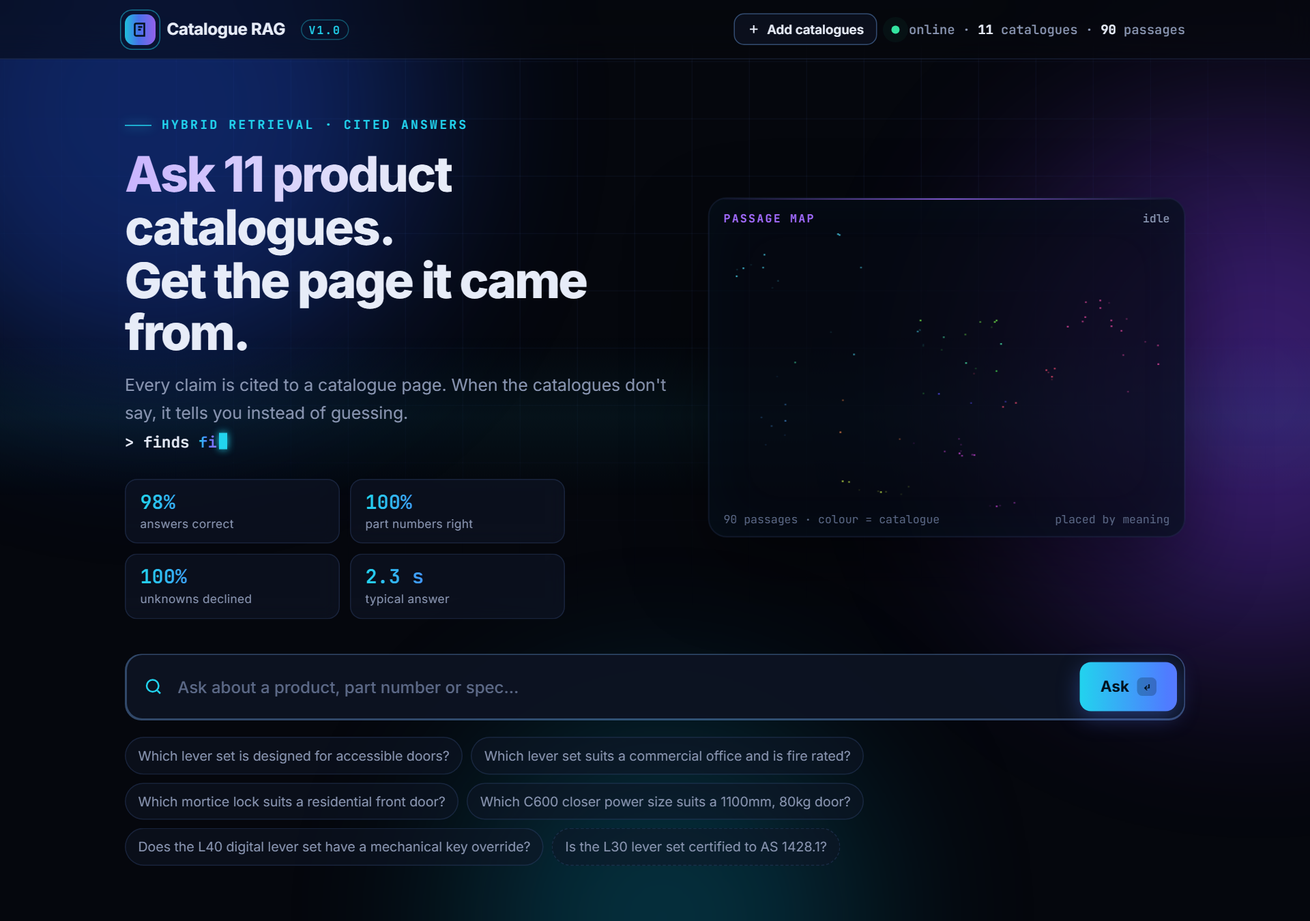
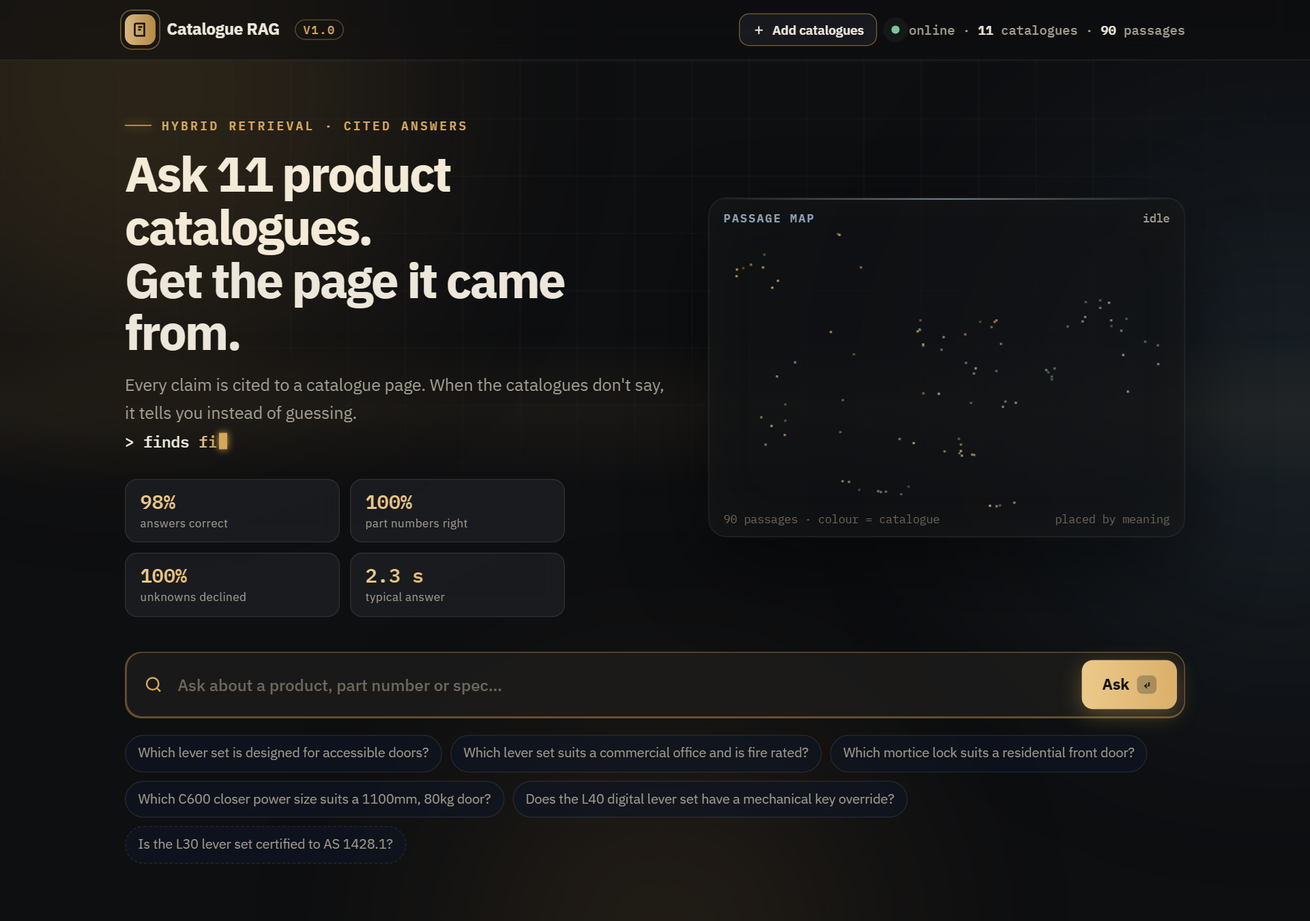
Graphite and brass theme; robust decline detection
- UI and diagram: warm graphite surfaces, brushed-brass accent, steel secondary,
  IBM Plex type; no purple or neon gradients. Map dots in metal tones
- An uncited 'the extracts do not mention X' reply now counts as a decline even when
  the model omits the NOT_FOUND marker, and the UI labels it as such
- Screenshots, diagram and demo GIF re-recorded

diff --git a/ui/index.html b/ui/index.html
@@ -5,19 +5,19 @@
 <meta name="viewport" content="width=device-width, initial-scale=1">
 <title>Catalogue RAG</title>
 <meta name="description" content="Ask product catalogues a question; get an answer with the page it came from.">
-<meta name="theme-color" content="#05070d">
+<meta name="theme-color" content="#0e0f11">
 <link rel="preconnect" href="https://fonts.googleapis.com">
 <link rel="preconnect" href="https://fonts.gstatic.com" crossorigin>
-<link href="https://fonts.googleapis.com/css2?family=Inter:wght@400;500;600;700;800&family=JetBrains+Mono:wght@400;500;700&display=swap" rel="stylesheet">
+<link href="https://fonts.googleapis.com/css2?family=IBM+Plex+Sans:wght@400;500;600;700&family=IBM+Plex+Mono:wght@400;500;600&display=swap" rel="stylesheet">
 <style>
   :root {
-    --bg: #05070d; --bg2: #0a0f1c; --glass: rgba(14, 21, 38, .62); --glass-hi: rgba(22, 32, 58, .72);
-    --line: rgba(120, 160, 255, .14); --line-hi: rgba(120, 180, 255, .38);
-    --ink: #e7ecf8; --muted: #8b97b3; --dim: #5d6a88;
-    --cyan: #22d3ee; --blue: #4f7cff; --violet: #a26bff; --green: #34e3a0; --amber: #ffb547; --red: #ff5c7a;
-    --grad: linear-gradient(90deg, #22d3ee, #4f7cff 45%, #a26bff);
-    --mono: "JetBrains Mono", ui-monospace, SFMono-Regular, Consolas, monospace;
-    --sans: Inter, system-ui, -apple-system, "Segoe UI", sans-serif;
+    --bg: #0e0f11; --bg2: #16181b; --glass: rgba(30, 32, 36, .72); --glass-hi: rgba(36, 38, 43, .84);
+    --line: rgba(232, 220, 200, .10); --line-hi: rgba(212, 168, 90, .42);
+    --ink: #ece6db; --muted: #a39c90; --dim: #6e685f;
+    --brass: #d4a85a; --brass-hi: #ecc98a; --steel: #8ea2b5; --green: #7cc49a; --amber: #e2895c; --red: #e0614f;
+    --grad: linear-gradient(90deg, #ecc98a, #c8964a);
+    --mono: "IBM Plex Mono", ui-monospace, SFMono-Regular, Consolas, monospace;
+    --sans: "IBM Plex Sans", system-ui, -apple-system, "Segoe UI", sans-serif;
   }
   * { box-sizing: border-box; }
   html, body { margin: 0; }
@@ -31,47 +31,46 @@
     -webkit-mask-image: radial-gradient(ellipse 80% 60% at 50% 20%, #000 30%, transparent 75%);
             mask-image: radial-gradient(ellipse 80% 60% at 50% 20%, #000 30%, transparent 75%); }
   @keyframes grid-drift { to { transform: translate3d(56px, 56px, 0); } }
-  .orb { position: absolute; border-radius: 50%; filter: blur(90px); opacity: .42; animation: float 18s ease-in-out infinite; }
-  .orb.a { width: 520px; height: 520px; background: #1d4ed8; top: -160px; left: -120px; }
-  .orb.b { width: 460px; height: 460px; background: #7c3aed; top: 120px; right: -140px; animation-delay: -6s; }
-  .orb.c { width: 380px; height: 380px; background: #0891b2; bottom: -180px; left: 35%; animation-delay: -12s; opacity: .3; }
+  .orb { position: absolute; border-radius: 50%; filter: blur(110px); opacity: .28; animation: float 18s ease-in-out infinite; }
+  .orb.a { width: 520px; height: 520px; background: #7a5c2e; top: -180px; left: -140px; }
+  .orb.b { width: 460px; height: 460px; background: #34495c; top: 140px; right: -160px; animation-delay: -6s; }
+  .orb.c { width: 380px; height: 380px; background: #5b4526; bottom: -200px; left: 35%; animation-delay: -12s; opacity: .3; }
   @keyframes float { 0%, 100% { transform: translate(0, 0) scale(1); } 50% { transform: translate(40px, 30px) scale(1.08); } }
   .scan { position: absolute; left: 0; right: 0; height: 160px; top: -160px;
-    background: linear-gradient(180deg, transparent, rgba(34, 211, 238, .06), transparent); animation: scan 7s linear infinite; }
+    background: linear-gradient(180deg, transparent, rgba(212, 168, 90, .06), transparent); animation: scan 7s linear infinite; }
   @keyframes scan { to { top: 110%; } }
 
   .wrap { position: relative; z-index: 1; max-width: 1080px; margin: 0 auto; padding: 0 22px; }
 
   /* ---------- header ---------- */
   header { position: sticky; top: 0; z-index: 5; backdrop-filter: blur(14px); -webkit-backdrop-filter: blur(14px);
-    background: rgba(5, 7, 13, .55); border-bottom: 1px solid var(--line); }
+    background: rgba(12, 13, 15, .55); border-bottom: 1px solid var(--line); }
   header .wrap { display: flex; align-items: center; justify-content: space-between; gap: 16px; padding-top: 13px; padding-bottom: 13px; }
   .brand { display: flex; align-items: center; gap: 11px; font-weight: 700; letter-spacing: -.01em; font-size: 16px; }
   .logo { position: relative; width: 30px; height: 30px; display: grid; place-items: center; }
   .logo::before { content: ""; position: absolute; inset: 0; border-radius: 9px; background: var(--grad); opacity: .9; }
-  .logo::after { content: ""; position: absolute; inset: -5px; border-radius: 12px; border: 1px solid var(--cyan); opacity: 0; animation: ping 2.6s ease-out infinite; }
+  .logo::after { content: ""; position: absolute; inset: -5px; border-radius: 12px; border: 1px solid var(--brass); opacity: 0; animation: ping 2.6s ease-out infinite; }
   @keyframes ping { 0% { opacity: .7; transform: scale(.85); } 100% { opacity: 0; transform: scale(1.35); } }
-  .logo svg { position: relative; color: #04121f; }
-  .brand small { font: 500 11px var(--mono); color: var(--cyan); letter-spacing: .12em; text-transform: uppercase; margin-left: 4px;
-    padding: 2px 7px; border: 1px solid rgba(34, 211, 238, .35); border-radius: 999px; }
+  .logo svg { position: relative; color: #1b1408; }
+  .brand small { font: 500 11px var(--mono); color: var(--brass); letter-spacing: .12em; text-transform: uppercase; margin-left: 4px;
+    padding: 2px 7px; border: 1px solid rgba(212, 168, 90, .35); border-radius: 999px; }
   .status { display: flex; align-items: center; gap: 9px; font: 500 12.5px var(--mono); color: var(--muted); }
-  .dot { width: 8px; height: 8px; border-radius: 50%; background: var(--green); box-shadow: 0 0 0 0 rgba(52, 227, 160, .7); animation: pulse 2s infinite; }
+  .dot { width: 8px; height: 8px; border-radius: 50%; background: var(--green); box-shadow: 0 0 0 0 rgba(124, 196, 154, .7); animation: pulse 2s infinite; }
   .dot.off { background: var(--red); animation: none; }
-  @keyframes pulse { 70% { box-shadow: 0 0 0 9px rgba(52, 227, 160, 0); } 100% { box-shadow: 0 0 0 0 rgba(52, 227, 160, 0); } }
+  @keyframes pulse { 70% { box-shadow: 0 0 0 9px rgba(124, 196, 154, 0); } 100% { box-shadow: 0 0 0 0 rgba(124, 196, 154, 0); } }
   .status b { color: var(--ink); font-weight: 700; }
 
   /* ---------- hero ---------- */
   main.wrap { padding-top: 56px; padding-bottom: 70px; }
-  .eyebrow { font: 600 12px var(--mono); color: var(--cyan); letter-spacing: .18em; text-transform: uppercase; display: flex; align-items: center; gap: 10px; }
-  .eyebrow::before { content: ""; width: 26px; height: 1px; background: var(--cyan); box-shadow: 0 0 10px var(--cyan); }
+  .eyebrow { font: 600 12px var(--mono); color: var(--brass); letter-spacing: .18em; text-transform: uppercase; display: flex; align-items: center; gap: 10px; }
+  .eyebrow::before { content: ""; width: 26px; height: 1px; background: var(--brass); box-shadow: 0 0 10px var(--brass); }
   h1 { font-size: clamp(30px, 5vw, 48px); line-height: 1.08; letter-spacing: -.035em; margin: 14px 0 12px; font-weight: 800; }
-  .shimmer { background: linear-gradient(90deg, #e7ecf8 0%, #9fdcff 25%, #c9b3ff 50%, #e7ecf8 75%); background-size: 200% auto;
-    -webkit-background-clip: text; background-clip: text; color: transparent; animation: shimmer 6s linear infinite; }
+  .shimmer { color: #f4ead8; }
   @keyframes shimmer { to { background-position: -200% center; } }
   .lede { color: var(--muted); font-size: 16.5px; margin: 0 0 6px; max-width: 690px; }
   .typer { font: 500 15px var(--mono); color: var(--ink); min-height: 24px; }
   .typer .t { background: var(--grad); -webkit-background-clip: text; background-clip: text; color: transparent; font-weight: 700; }
-  .caret { display: inline-block; width: 8px; height: 1.05em; vertical-align: -2px; margin-left: 2px; background: var(--cyan); animation: blink 1s steps(1) infinite; box-shadow: 0 0 8px var(--cyan); }
+  .caret { display: inline-block; width: 8px; height: 1.05em; vertical-align: -2px; margin-left: 2px; background: var(--brass); animation: blink 1s steps(1) infinite; box-shadow: 0 0 8px var(--brass); }
   @keyframes blink { 50% { opacity: 0; } }
 
   .stats { display: flex; flex-wrap: wrap; gap: 10px; margin: 22px 0 0; }
@@ -84,19 +83,19 @@
   /* ---------- search ---------- */
   .search { position: relative; border-radius: 16px; padding: 1.5px; background: var(--line-hi); transition: background .3s; }
   .search::before { content: ""; position: absolute; inset: 0; border-radius: 16px; padding: 1.5px; opacity: 0; transition: opacity .3s;
-    background: conic-gradient(from var(--angle), #22d3ee, #4f7cff, #a26bff, #22d3ee); animation: spin-border 4s linear infinite;
+    background: conic-gradient(from var(--angle), #ecc98a, #8ea2b5, #c8964a, #ecc98a); animation: spin-border 4s linear infinite;
     -webkit-mask: linear-gradient(#000 0 0) content-box, linear-gradient(#000 0 0); -webkit-mask-composite: xor; mask-composite: exclude; }
   .search:focus-within::before, .search.busy::before { opacity: 1; }
   @property --angle { syntax: "<angle>"; initial-value: 0deg; inherits: false; }
   @keyframes spin-border { to { --angle: 360deg; } }
-  form { position: relative; display: flex; gap: 8px; align-items: center; padding: 7px 7px 7px 16px; border-radius: 15px; background: rgba(9, 13, 25, .9); }
-  .q-icon { color: var(--cyan); flex: none; }
+  form { position: relative; display: flex; gap: 8px; align-items: center; padding: 7px 7px 7px 16px; border-radius: 15px; background: rgba(19, 20, 23, .9); }
+  .q-icon { color: var(--brass); flex: none; }
   input[type=text] { flex: 1; min-width: 0; padding: 12px 6px; font: 500 16px var(--sans); color: var(--ink); background: none; border: 0; outline: none; }
   input[type=text]::placeholder { color: var(--dim); }
   button { font: inherit; cursor: pointer; border: 0; }
-  .ask { display: inline-flex; align-items: center; gap: 8px; padding: 12px 20px; border-radius: 11px; font-weight: 700; color: #03121e;
-    background: var(--grad); background-size: 200% auto; transition: background-position .4s, transform .15s, box-shadow .3s; box-shadow: 0 6px 22px rgba(79, 124, 255, .35); }
-  .ask:hover { background-position: right center; box-shadow: 0 8px 28px rgba(162, 107, 255, .45); }
+  .ask { display: inline-flex; align-items: center; gap: 8px; padding: 12px 20px; border-radius: 11px; font-weight: 700; color: #1b1408;
+    background: var(--grad); background-size: 200% auto; transition: background-position .4s, transform .15s, box-shadow .3s; box-shadow: 0 6px 22px rgba(212, 168, 90, .35); }
+  .ask:hover { background-position: right center; box-shadow: 0 8px 28px rgba(212, 168, 90, .45); }
   .ask:active { transform: translateY(1px); }
   .ask:disabled { opacity: .6; cursor: wait; }
   kbd { font: 600 10.5px var(--mono); padding: 2px 6px; border-radius: 5px; background: rgba(3, 18, 30, .25); }
@@ -105,7 +104,7 @@
     border-radius: 999px; transition: color .2s, border-color .2s, box-shadow .2s, transform .2s; animation: rise .6s both; }
   .examples button:nth-child(2) { animation-delay: .06s; } .examples button:nth-child(3) { animation-delay: .12s; }
   .examples button:nth-child(4) { animation-delay: .18s; } .examples button:nth-child(5) { animation-delay: .24s; }
-  .examples button:hover { color: var(--ink); border-color: var(--cyan); box-shadow: 0 0 18px rgba(34, 211, 238, .22); transform: translateY(-1px); }
+  .examples button:hover { color: var(--ink); border-color: var(--brass); box-shadow: 0 0 18px rgba(212, 168, 90, .22); transform: translateY(-1px); }
   .examples button.trap { border-style: dashed; }
   @keyframes rise { from { opacity: 0; transform: translateY(8px); } to { opacity: 1; transform: none; } }
 
@@ -118,7 +117,7 @@
   .step::after { content: ""; position: absolute; left: 0; bottom: 0; height: 2px; width: 0; background: var(--grad); transition: width .5s ease; }
   .step.active { border-color: var(--line-hi); }
   .step.active::after { width: 60%; animation: load 1.2s ease-in-out infinite alternate; }
-  .step.active .n { color: var(--cyan); }
+  .step.active .n { color: var(--brass); }
   .step.done::after { width: 100%; animation: none; }
   .step.done .n { color: var(--green); }
   @keyframes load { from { width: 15%; } to { width: 85%; } }
@@ -128,22 +127,22 @@
   .card { position: relative; background: var(--glass-hi); border: 1px solid var(--line); border-radius: 16px; padding: 20px 22px; backdrop-filter: blur(10px);
     box-shadow: 0 20px 60px rgba(0, 0, 0, .35); animation: rise .45s both; }
   .card::before { content: ""; position: absolute; inset: 0 0 auto; height: 1px; border-radius: 16px 16px 0 0;
-    background: linear-gradient(90deg, transparent, var(--cyan), transparent); opacity: .7; }
-  .label { display: flex; align-items: center; gap: 8px; font: 600 11.5px var(--mono); text-transform: uppercase; letter-spacing: .14em; color: var(--cyan); margin-bottom: 10px; }
+    background: linear-gradient(90deg, transparent, var(--brass), transparent); opacity: .7; }
+  .label { display: flex; align-items: center; gap: 8px; font: 600 11.5px var(--mono); text-transform: uppercase; letter-spacing: .14em; color: var(--brass); margin-bottom: 10px; }
   .answer { font-size: 17px; line-height: 1.65; min-height: 54px; }
   .answer p { margin: 0 0 10px; } .answer ul { margin: 0 0 10px; padding-left: 20px; }
   .answer strong { color: #fff; }
-  .answer code { font: 500 14px var(--mono); color: #9fe9ff; background: rgba(34, 211, 238, .1); border: 1px solid rgba(34, 211, 238, .25); padding: 1px 6px; border-radius: 5px; }
+  .answer code { font: 500 14px var(--mono); color: #f0d9a8; background: rgba(212, 168, 90, .1); border: 1px solid rgba(212, 168, 90, .25); padding: 1px 6px; border-radius: 5px; }
   .cite { display: inline-grid; place-items: center; min-width: 21px; height: 21px; padding: 0 5px; margin: 0 2px; border-radius: 6px; vertical-align: 1px;
-    font: 700 11.5px var(--mono); color: #04121f; background: var(--cyan); text-decoration: none; box-shadow: 0 0 12px rgba(34, 211, 238, .55);
+    font: 700 11.5px var(--mono); color: #1b1408; background: var(--brass); text-decoration: none; box-shadow: 0 0 12px rgba(212, 168, 90, .55);
     animation: pop .35s cubic-bezier(.2, 1.6, .4, 1) both; transition: transform .15s; }
   .cite:hover { transform: translateY(-2px) scale(1.08); }
   @keyframes pop { from { transform: scale(.3); opacity: 0; } to { transform: none; opacity: 1; } }
-  .typing::after { content: ""; display: inline-block; width: 8px; height: 1.05em; margin-left: 3px; vertical-align: -2px; background: var(--cyan); animation: blink .8s steps(1) infinite; }
+  .typing::after { content: ""; display: inline-block; width: 8px; height: 1.05em; margin-left: 3px; vertical-align: -2px; background: var(--brass); animation: blink .8s steps(1) infinite; }
   .meta { display: flex; flex-wrap: wrap; gap: 7px; margin-top: 14px; }
-  .chip { font: 500 11.5px var(--mono); color: var(--muted); padding: 3px 9px; border: 1px solid var(--line); border-radius: 999px; background: rgba(5, 7, 13, .4); animation: rise .4s both; }
+  .chip { font: 500 11.5px var(--mono); color: var(--muted); padding: 3px 9px; border: 1px solid var(--line); border-radius: 999px; background: rgba(12, 13, 15, .4); animation: rise .4s both; }
   .chip b { color: var(--ink); }
-  .declined { border-color: rgba(255, 181, 71, .45); box-shadow: 0 0 0 1px rgba(255, 181, 71, .12), 0 20px 60px rgba(255, 140, 0, .08); }
+  .declined { border-color: rgba(226, 137, 92, .45); box-shadow: 0 0 0 1px rgba(226, 137, 92, .12), 0 20px 60px rgba(226, 137, 92, .08); }
   .declined::before { background: linear-gradient(90deg, transparent, var(--amber), transparent); }
   .declined .label { color: var(--amber); }
   .shield { color: var(--amber); }
@@ -154,70 +153,70 @@
     animation: slide .5s both; transition: border-color .25s, box-shadow .25s, transform .25s; }
   .src:hover { transform: translateX(-2px); border-color: var(--line-hi); }
   @keyframes slide { from { opacity: 0; transform: translateX(18px); } to { opacity: 1; transform: none; } }
-  .src.cited { border-color: rgba(34, 211, 238, .5); box-shadow: inset 3px 0 0 var(--cyan), 0 0 24px rgba(34, 211, 238, .1); }
-  .src.flash { box-shadow: inset 3px 0 0 var(--cyan), 0 0 0 2px var(--cyan), 0 0 34px rgba(34, 211, 238, .35); }
+  .src.cited { border-color: rgba(212, 168, 90, .5); box-shadow: inset 3px 0 0 var(--brass), 0 0 24px rgba(212, 168, 90, .1); }
+  .src.flash { box-shadow: inset 3px 0 0 var(--brass), 0 0 0 2px var(--brass), 0 0 34px rgba(212, 168, 90, .35); }
   .src-head { display: flex; gap: 9px; align-items: baseline; }
-  .src-n { font: 700 12px var(--mono); color: var(--cyan); }
+  .src-n { font: 700 12px var(--mono); color: var(--brass); }
   .src.uncited .src-n { color: var(--dim); }
   .src-title { font-weight: 600; font-size: 14px; }
   .src-where { color: var(--muted); font-size: 12px; margin: 2px 0 8px; }
   .tag { font: 600 10px var(--mono); letter-spacing: .08em; text-transform: uppercase; padding: 1px 6px; border-radius: 4px; margin-left: 6px; vertical-align: 1px; }
-  .tag.c { color: #04121f; background: var(--cyan); } .tag.u { color: var(--dim); border: 1px solid var(--line); }
+  .tag.c { color: #1b1408; background: var(--brass); } .tag.u { color: var(--dim); border: 1px solid var(--line); }
   .src-text { font: 400 12px/1.55 var(--mono); white-space: pre-wrap; color: #a9b4cd; max-height: 104px; overflow: hidden;
     -webkit-mask-image: linear-gradient(#000 62%, transparent); mask-image: linear-gradient(#000 62%, transparent); }
   .src.open .src-text { max-height: none; -webkit-mask-image: none; mask-image: none; }
-  .bar { height: 3px; border-radius: 3px; background: rgba(120, 160, 255, .12); margin-top: 9px; overflow: hidden; }
+  .bar { height: 3px; border-radius: 3px; background: rgba(232, 220, 200, .12); margin-top: 9px; overflow: hidden; }
   .bar i { display: block; height: 100%; width: 0; background: var(--grad); transition: width 1s cubic-bezier(.2, .8, .2, 1); }
-  .more { background: none; color: var(--cyan); padding: 6px 0 0; font: 600 12px var(--mono); }
+  .more { background: none; color: var(--brass); padding: 6px 0 0; font: 600 12px var(--mono); }
   .src.uncited { opacity: .72; }
 
   /* hero: text left, passage map right */
   .hero { display: grid; grid-template-columns: minmax(0, 1.15fr) minmax(0, 1fr); gap: 34px; align-items: center; }
-  .map-card { position: relative; border-radius: 18px; border: 1px solid var(--line); background: rgba(6, 10, 20, .72);
-    box-shadow: 0 30px 80px rgba(0, 0, 0, .45), inset 0 0 60px rgba(34, 211, 238, .04); overflow: hidden; animation: rise .7s .15s both; }
-  .map-card::before { content: ""; position: absolute; inset: 0 0 auto; height: 1px; background: linear-gradient(90deg, transparent, var(--violet), transparent); }
+  .map-card { position: relative; border-radius: 18px; border: 1px solid var(--line); background: rgba(17, 18, 21, .72);
+    box-shadow: 0 30px 80px rgba(0, 0, 0, .45), inset 0 0 60px rgba(212, 168, 90, .04); overflow: hidden; animation: rise .7s .15s both; }
+  .map-card::before { content: ""; position: absolute; inset: 0 0 auto; height: 1px; background: linear-gradient(90deg, transparent, var(--steel), transparent); }
   #map { display: block; width: 100%; height: 330px; cursor: crosshair; }
   .map-head { position: absolute; top: 12px; left: 14px; right: 14px; display: flex; justify-content: space-between; gap: 10px; pointer-events: none; }
-  .map-title { font: 600 11px var(--mono); letter-spacing: .14em; text-transform: uppercase; color: var(--violet); }
+  .map-title { font: 600 11px var(--mono); letter-spacing: .14em; text-transform: uppercase; color: var(--steel); }
   .map-state { font: 500 11px var(--mono); color: var(--muted); }
   .map-foot { position: absolute; left: 14px; right: 14px; bottom: 10px; font: 11px var(--mono); color: var(--dim); pointer-events: none; display: flex; justify-content: space-between; gap: 8px; }
-  .map-tip { position: absolute; pointer-events: none; padding: 6px 9px; border-radius: 8px; background: rgba(5, 7, 13, .92); border: 1px solid var(--line-hi);
+  .map-tip { position: absolute; pointer-events: none; padding: 6px 9px; border-radius: 8px; background: rgba(12, 13, 15, .92); border: 1px solid var(--line-hi);
     font: 500 11.5px var(--sans); color: var(--ink); white-space: nowrap; transform: translate(-50%, calc(-100% - 12px)); opacity: 0; transition: opacity .15s; }
   .map-tip.on { opacity: 1; }
 
   /* cursor spotlight on glass panels */
-  .spot { background-image: radial-gradient(360px circle at var(--mx, -999px) var(--my, -999px), rgba(34, 211, 238, .09), transparent 42%); }
+  .spot { background-image: radial-gradient(360px circle at var(--mx, -999px) var(--my, -999px), rgba(212, 168, 90, .09), transparent 42%); }
 
   /* citation hover preview */
-  .peek { position: fixed; z-index: 20; width: min(380px, 90vw); padding: 12px 14px; border-radius: 12px; background: rgba(8, 12, 24, .97);
-    border: 1px solid rgba(34, 211, 238, .45); box-shadow: 0 18px 50px rgba(0, 0, 0, .6), 0 0 30px rgba(34, 211, 238, .15);
+  .peek { position: fixed; z-index: 20; width: min(380px, 90vw); padding: 12px 14px; border-radius: 12px; background: rgba(22, 23, 26, .97);
+    border: 1px solid rgba(212, 168, 90, .45); box-shadow: 0 18px 50px rgba(0, 0, 0, .6), 0 0 30px rgba(212, 168, 90, .15);
     pointer-events: none; opacity: 0; transform: translateY(6px); transition: opacity .15s, transform .15s; }
   .peek.on { opacity: 1; transform: none; }
   .peek b { display: block; font-size: 13px; } .peek small { display: block; color: var(--muted); font-size: 11.5px; margin: 1px 0 7px; }
   .peek pre { margin: 0; font: 11.5px/1.5 var(--mono); color: #a9b4cd; white-space: pre-wrap; max-height: 150px; overflow: hidden; }
-  .src.reading .tag.u { color: var(--cyan); border-color: rgba(34, 211, 238, .35); animation: blink 1s steps(1) infinite; }
+  .src.reading .tag.u { color: var(--brass); border-color: rgba(212, 168, 90, .35); animation: blink 1s steps(1) infinite; }
 
   /* add catalogues (only shown when the server has uploads switched on) */
   .head-right { display: flex; align-items: center; gap: 14px; }
   .add-btn { display: inline-flex; align-items: center; gap: 7px; padding: 7px 12px; border-radius: 10px; cursor: pointer;
     font: 600 12.5px var(--sans); color: var(--ink); background: var(--glass); border: 1px solid var(--line-hi); transition: border-color .2s, box-shadow .2s; }
-  .add-btn:hover { border-color: var(--cyan); box-shadow: 0 0 18px rgba(34, 211, 238, .25); }
-  .veil { position: fixed; inset: 0; z-index: 30; background: rgba(3, 5, 10, .66); backdrop-filter: blur(6px); display: grid; place-items: center; padding: 16px; }
+  .add-btn:hover { border-color: var(--brass); box-shadow: 0 0 18px rgba(212, 168, 90, .25); }
+  .veil { position: fixed; inset: 0; z-index: 30; background: rgba(8, 8, 9, .66); backdrop-filter: blur(6px); display: grid; place-items: center; padding: 16px; }
   .veil[hidden] { display: none; }
-  .panel { width: min(560px, 100%); max-height: 88vh; overflow: auto; border-radius: 18px; background: rgba(10, 15, 28, .97);
+  .panel { width: min(560px, 100%); max-height: 88vh; overflow: auto; border-radius: 18px; background: rgba(24, 25, 29, .97);
     border: 1px solid var(--line-hi); box-shadow: 0 30px 90px rgba(0, 0, 0, .6); padding: 22px; animation: rise .25s both; }
   .panel h2 { margin: 0 0 4px; font-size: 19px; } .panel p.sub { margin: 0 0 16px; color: var(--muted); font-size: 13.5px; }
-  .panel label { display: block; font: 600 11px var(--mono); letter-spacing: .12em; text-transform: uppercase; color: var(--cyan); margin: 0 0 6px; }
+  .panel label { display: block; font: 600 11px var(--mono); letter-spacing: .12em; text-transform: uppercase; color: var(--brass); margin: 0 0 6px; }
   .panel input[type=password] { width: 100%; padding: 10px 12px; border-radius: 10px; border: 1px solid var(--line); background: var(--bg2); color: var(--ink); font: 13px var(--mono); }
   .drop { margin: 14px 0; padding: 26px 16px; border: 1.5px dashed var(--line-hi); border-radius: 14px; text-align: center; color: var(--muted); cursor: pointer; transition: border-color .2s, background .2s; }
-  .drop.over, .drop:hover { border-color: var(--cyan); background: rgba(34, 211, 238, .05); color: var(--ink); }
+  .drop.over, .drop:hover { border-color: var(--brass); background: rgba(212, 168, 90, .05); color: var(--ink); }
   .drop b { color: var(--ink); }
   .jobs { display: grid; gap: 8px; }
   .job { display: grid; grid-template-columns: 1fr auto; gap: 2px 10px; padding: 10px 12px; border-radius: 11px; background: var(--glass); border: 1px solid var(--line); font-size: 13px; }
   .job small { grid-column: 1 / -1; color: var(--muted); font: 11.5px var(--mono); }
   .pill { font: 600 10.5px var(--mono); letter-spacing: .08em; text-transform: uppercase; padding: 2px 8px; border-radius: 999px; border: 1px solid var(--line-hi); color: var(--muted); align-self: start; }
-  .pill.extracting, .pill.indexing { color: var(--cyan); border-color: rgba(34, 211, 238, .45); animation: blink 1.2s steps(1) infinite; }
-  .pill.done { color: var(--green); border-color: rgba(52, 227, 160, .45); } .pill.failed { color: var(--red); border-color: rgba(255, 92, 122, .45); }
+  .pill.extracting, .pill.indexing { color: var(--brass); border-color: rgba(212, 168, 90, .45); animation: blink 1.2s steps(1) infinite; }
+  .pill.done { color: var(--green); border-color: rgba(124, 196, 154, .45); } .pill.failed { color: var(--red); border-color: rgba(224, 97, 79, .45); }
   .panel .row { display: flex; justify-content: space-between; align-items: center; gap: 10px; margin-top: 14px; color: var(--dim); font-size: 12px; }
   .panel .close { padding: 7px 14px; border-radius: 10px; border: 1px solid var(--line-hi); background: transparent; color: var(--ink); cursor: pointer; }
 
@@ -434,7 +433,8 @@ function runPipeline() {
 // ---------- passage map: every passage as a dot, placed by a 2-D projection of its embedding ----------
 const map = { pts: [], byId: new Map(), hits: new Set(), docs: [], scan: 0, hover: -1, burst: 0 };
 const mapCanvas = $("map"), ctx = mapCanvas.getContext("2d");
-function hue(i) { return (i * 137.508 + 190) % 360; }  // golden-angle spread of colours per catalogue
+const DOT = ["#d4a85a", "#8ea2b5", "#b98a6a", "#a7b59a", "#c9b79c", "#7f97a8", "#d9c28f", "#9c8f7d", "#b3a17a", "#8fa79a", "#c49a7c", "#a0a9b3"];
+function dotColour(i) { return DOT[i % DOT.length]; }  // metal and natural-finish tones, one per catalogue
 async function loadMap() {
   try {
     const m = await (await fetch("/api/map")).json();
@@ -462,26 +462,27 @@ function drawMap(t) {
     const p = map.pts[i], [x, y] = toScreen(p), lit = map.hits.has(i);
     if (lit) continue;
     const tw = reduced ? 0.6 : 0.45 + 0.35 * Math.sin(t / 900 + p.ph);
-    ctx.fillStyle = `hsla(${hue(p.d)}, 85%, 62%, ${map.hits.size ? tw * 0.35 : tw})`;
-    ctx.fillRect(x, y, 1.6, 1.6);
+    ctx.globalAlpha = map.hits.size ? 0.18 + tw * 0.3 : 0.35 + tw * 0.65; ctx.fillStyle = dotColour(p.d);
+    ctx.fillRect(x - 0.4, y - 0.4, 2.2, 2.2);
   }
+  ctx.globalAlpha = 1;
   if (searching && !reduced) {  // sweeping scan ring while retrieval runs
     const k = (Math.max(0, t - map.scan) % 1400) / 1400, cx = w / 2, cy = h / 2 + 2, rad = k * Math.hypot(w, h) / 1.6;
-    ctx.strokeStyle = `rgba(34, 211, 238, ${0.5 * (1 - k)})`; ctx.lineWidth = 2;
+    ctx.strokeStyle = `rgba(212, 168, 90, ${0.5 * (1 - k)})`; ctx.lineWidth = 2;
     ctx.beginPath(); ctx.arc(cx, cy, rad, 0, 6.283); ctx.stroke();
   }
   if (map.hits.size) {  // retrieved passages: bright, pulsing, linked to their centre
     const lit = [...map.hits].map((i) => toScreen(map.pts[i]));
     const cx = lit.reduce((s, q) => s + q[0], 0) / lit.length, cy = lit.reduce((s, q) => s + q[1], 0) / lit.length;
     const age = Math.min(1, Math.max(0, t - map.burst) / 700);
-    ctx.strokeStyle = `rgba(34, 211, 238, ${0.28 * age})`; ctx.lineWidth = 1;
+    ctx.strokeStyle = `rgba(212, 168, 90, ${0.28 * age})`; ctx.lineWidth = 1;
     lit.forEach(([x, y]) => { ctx.beginPath(); ctx.moveTo(cx, cy); ctx.lineTo(cx + (x - cx) * age, cy + (y - cy) * age); ctx.stroke(); });
     lit.forEach(([x, y], j) => {
       const pulse = reduced ? 0 : (Math.sin(t / 260 + j) + 1) / 2;
-      ctx.fillStyle = "rgba(34, 211, 238, .16)"; ctx.beginPath(); ctx.arc(x, y, 7 + pulse * 5, 0, 6.283); ctx.fill();
-      ctx.fillStyle = "#e9fbff"; ctx.beginPath(); ctx.arc(x, y, 2.6, 0, 6.283); ctx.fill();
+      ctx.fillStyle = "rgba(212, 168, 90, .16)"; ctx.beginPath(); ctx.arc(x, y, 7 + pulse * 5, 0, 6.283); ctx.fill();
+      ctx.fillStyle = "#fff4dc"; ctx.beginPath(); ctx.arc(x, y, 2.6, 0, 6.283); ctx.fill();
     });
-    ctx.fillStyle = "#a26bff"; ctx.shadowColor = "#a26bff"; ctx.shadowBlur = 14;
+    ctx.fillStyle = "#f4ead8"; ctx.shadowColor = "#d4a85a"; ctx.shadowBlur = 14;
     ctx.beginPath(); ctx.arc(cx, cy, 3.5, 0, 6.283); ctx.fill(); ctx.shadowBlur = 0;
   }
   if (map.hover >= 0) {
@@ -552,6 +553,11 @@ async function ask(question) {
   }
 }
 
+function markDeclined() {
+  $("answer-card").classList.add("declined");
+  $("answer-label").innerHTML = '<svg class="shield" width="14" height="14" viewBox="0 0 24 24" fill="none" stroke="currentColor" stroke-width="2.4"><path d="M12 3 4 6v6c0 5 3.5 8 8 9 4.5-1 8-4 8-9V6z"/><path d="M12 8v5M12 16h.01"/></svg> Not in the catalogues';
+}
+
 function onEvent(ev, t0) {
   if (ev.type === "sources") {
     clearInterval(stageTimer); pipeline(3);
@@ -563,8 +569,7 @@ function onEvent(ev, t0) {
     $("map-state").textContent = `${map.hits.size} passages lit`;
     $("answer").innerHTML = '<span class="typing" style="color:var(--muted)">Reading the sources</span>';
   } else if (ev.type === "declined") {
-    $("answer-card").classList.add("declined");
-    $("answer-label").innerHTML = '<svg class="shield" width="14" height="14" viewBox="0 0 24 24" fill="none" stroke="currentColor" stroke-width="2.4"><path d="M12 3 4 6v6c0 5 3.5 8 8 9 4.5-1 8-4 8-9V6z"/><path d="M12 8v5M12 16h.01"/></svg> Not in the catalogues';
+    markDeclined();
   } else if (ev.type === "delta") {
     if (!current.raw) document.querySelector('.step[data-i="3"] .s').textContent = `first words ${((performance.now() - t0) / 1000).toFixed(1)} s`;
     current.raw += ev.text;
@@ -573,7 +578,7 @@ function onEvent(ev, t0) {
   } else if (ev.type === "done") {
     pipeline(4);
     $("answer").classList.remove("typing");
-    if (ev.declined) $("answer-card").classList.add("declined");
+    if (ev.declined) markDeclined();
     $("answer").innerHTML = render(ev.answer);
     showSources(ev.sources, new Set(ev.citations.map((c) => c.n)));
     const t = ev.timings_ms || {};

diff --git a/src/catalogue_rag/generation.py b/src/catalogue_rag/generation.py
@@ -16,6 +16,14 @@ from .retrieval import Hit
 
 NOT_FOUND = "NOT_FOUND"
 
+# Wording of a refusal when the model forgets the NOT_FOUND marker: "The extracts do not mention ...".
+# Only used for replies that cite nothing, so a cited answer that mentions a gap is not a decline.
+DECLINE_WORDING = re.compile(
+    r"\b(?:extracts?|sources?|catalogues?|documents?)\b[^.]{0,80}?\b(?:do(?:es)? not|don't|doesn't|cannot|can't)\s+"
+    r"(?:mention|contain|include|cover|specify|state|say|provide|list|confirm)"
+    r"|\bnot (?:mentioned|covered|stated|specified|listed|included|provided) in the\b"
+    r"|\bno (?:information|mention|details?) (?:about|on|of|regarding)\b", re.I)
+
 SYSTEM_PROMPT = f"""You answer questions about door, window and security hardware using ONLY the numbered
 catalogue extracts provided. You are precise because people order parts from your answers.
 
@@ -128,4 +136,7 @@ def finish(raw: str, n_sources: int, model: str, usage: dict | None = None) -> G
     text = re.sub(r"(?i)^(?:on the first line|then one sentence saying what the extracts do cover)[.:,]?\s*", "", text).strip()
     if declined:
         text = re.sub(r"\s*\[\d+(?:\s*[,;]\s*\d+)*\]", "", text).strip()  # a refusal cites nothing
-    return Generated(text, [] if declined else parse_citations(text, n_sources), declined, model, usage or {})
+    cited = [] if declined else parse_citations(text, n_sources)
+    if not declined and not cited and DECLINE_WORDING.search(text[:400]):
+        declined = True  # an uncited "the extracts do not mention X" is a refusal, marker or not
+    return Generated(text, cited, declined, model, usage or {})

diff --git a/tests/test_retrieval_and_generation.py b/tests/test_retrieval_and_generation.py
@@ -139,3 +139,14 @@ def test_stream_never_shows_the_decline_marker():
     shown = "".join(v for k, v in events if k == "delta")
     assert kinds[0] == "declined" and NOT_FOUND not in shown
     assert events[-1][1].declined and events[-1][1].text == "The extracts cover batteries, not prices."
+
+
+def test_uncited_refusal_without_marker_is_a_decline():
+    from catalogue_rag.generation import finish
+
+    g = finish("The extracts do not mention AS 1428.1 certification for the L30 lever set.", 8, "m")
+    assert g.declined and g.cited == []
+    g = finish("The L30 is fire rated to 60 minutes [2]. The extracts do not mention its warranty.", 8, "m")
+    assert not g.declined and g.cited == [2]  # cited answer with a noted gap stays an answer
+    g = finish("It uses a CR123A battery [1].", 8, "m")
+    assert not g.declined
